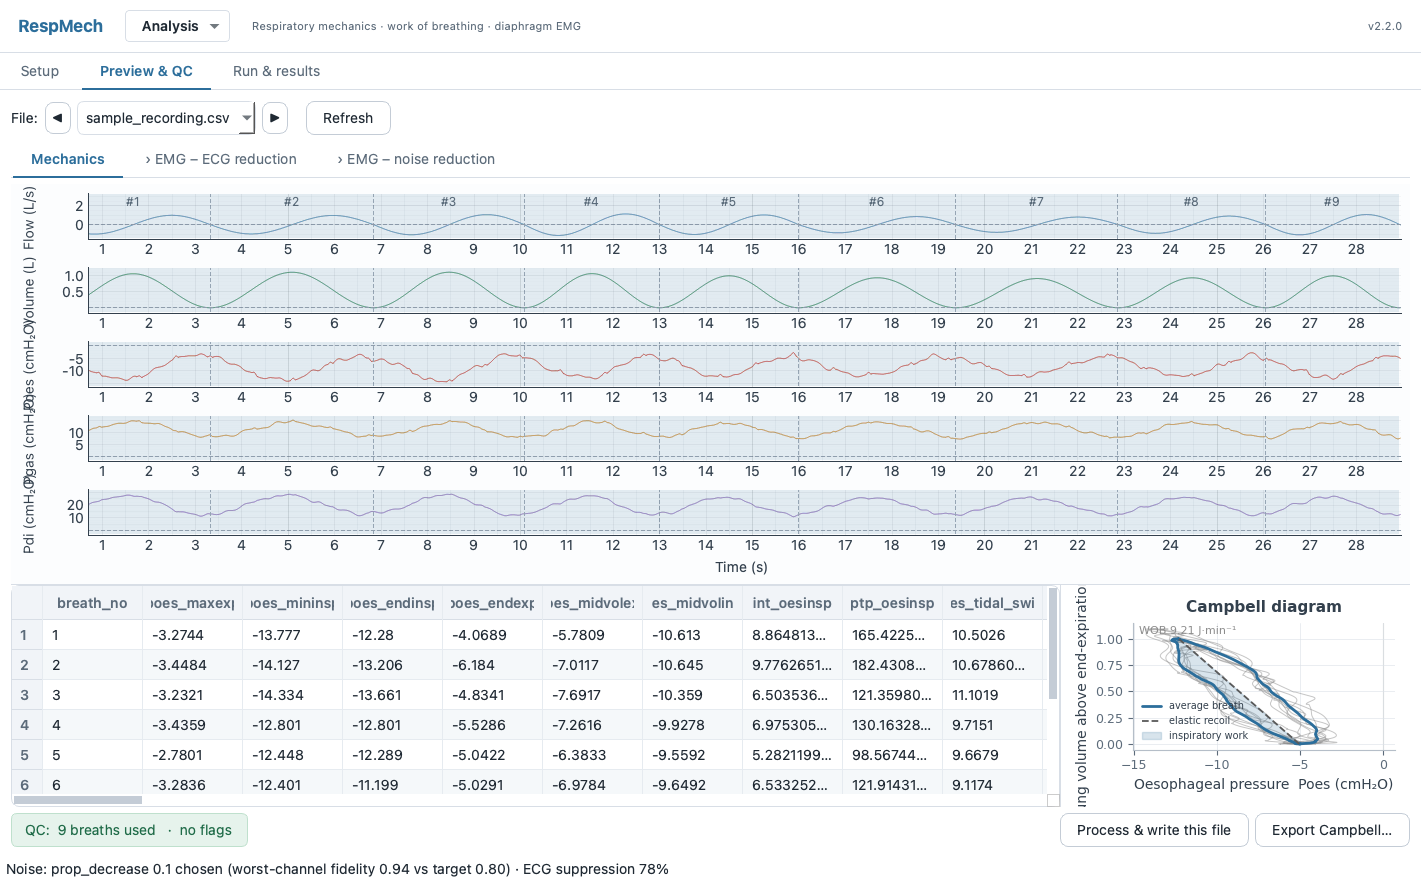
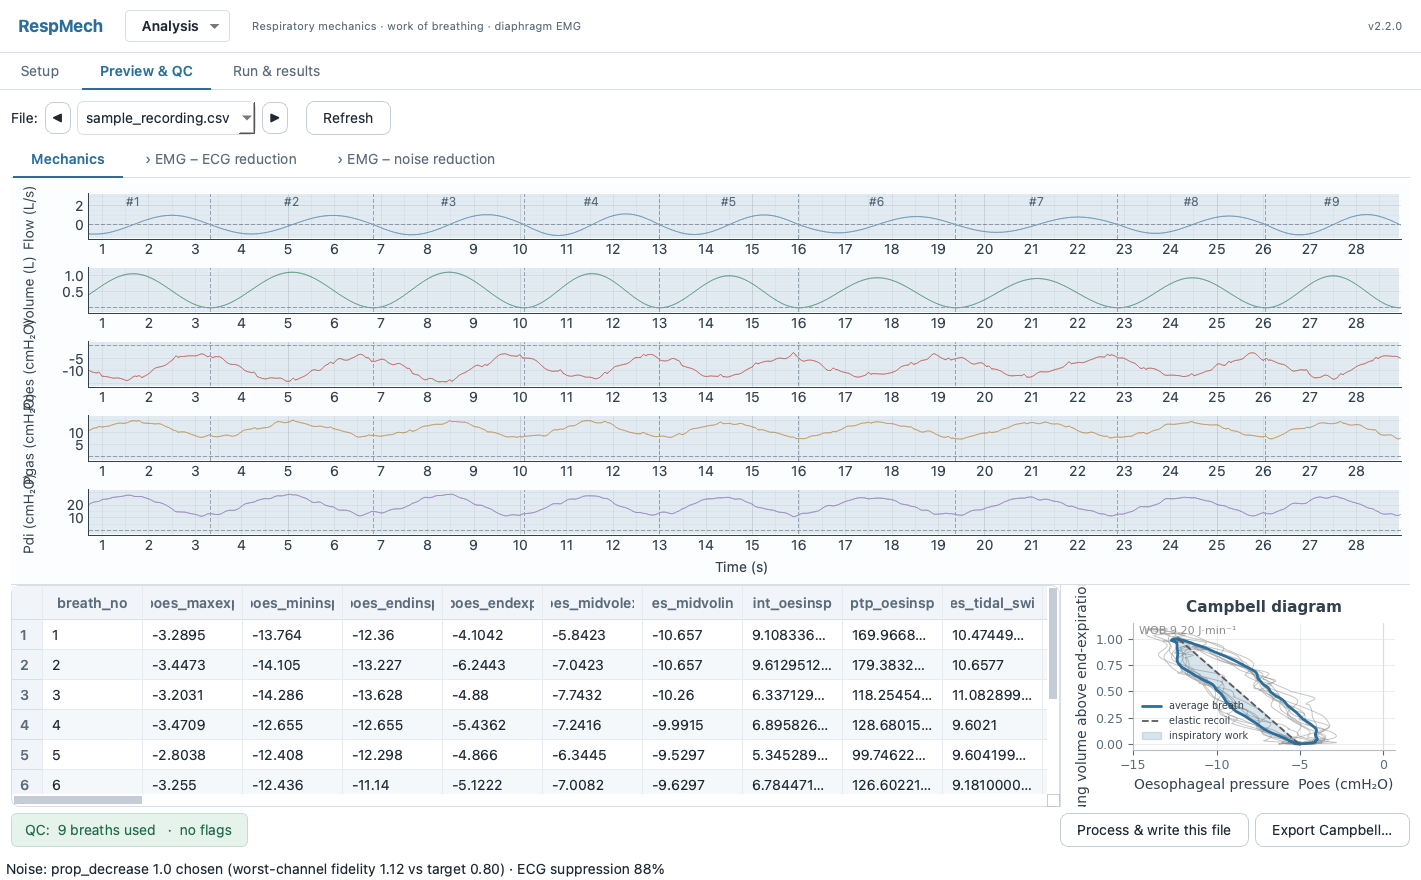
Sample EMG: clean ECG removal, shared-scale figure, visible noise reduction
Follow-up to the ECG-amplitude change. Three fixes so the demonstration is honest:

- ECG removal was leaving most of the QRS (the S-trough) as a big residual once the
  R-wave was made large. Root cause: build_sample_settings used the default
  ecg_min_height (0.0005), far below the EMG/noise, so the R-peak detector locked onto
  noise/EMG peaks and built a garbage averaged template. Setting ecg_min_height between
  the EMG (~0.2) and the R-wave (~0.9) fixes it: residual drops to ~11% of R (matching
  real data ~18%), and the ECG inflates the raw RMS ~2.8× (real data: 2.83×). The QRS is
  also widened to a realistic ~14 ms so template alignment is robust.
- The noise floor is now broadband instrumentation noise weighted ABOVE the EMG's ~30 Hz
  band (where real EMG noise sits), so it is spectrally separable: noise reduction now
  visibly cleans the between-burst gaps ~58% while preserving ~91% of the burst (was a
  barely-visible ~12%).
- The README EMG-stages figure uses ONE shared y-scale for all three rows; the R-waves
  are several times the EMG and simply run off the top of the raw row (positions marked
  ▼), so the conditioned rows are directly comparable. plot_yscale is cleared so the
  app's own diagnostic EMG figures auto-scale per stage.

Deterministic; 51 sample-binding tests pass.

diff --git a/src/respmech/core/sample.py b/src/respmech/core/sample.py
@@ -71,13 +71,15 @@ def _physio_noise(n, rng, amp, smooth_s=0.35):
     return amp * x / (x.std() or 1.0)
 
 
-def _coloured_noise(n, rng, amp, smooth_s=0.004):
-    """Broadband but mildly low-passed noise (coloured, like the real EMG floor — power
-    falls with frequency), scaled to std ``amp``. This is what spectral noise reduction
-    acts on; real recordings have no white fuzz or mains line."""
-    w = np.hanning(max(3, int(smooth_s * FS)))
-    w = w / w.sum()
-    y = np.convolve(rng.standard_normal(n + w.size), w, mode="same")[:n]
+def _instrument_noise(n, rng, amp):
+    """Broadband instrumentation noise weighted ABOVE the EMG's dominant band (it ramps in
+    from ~120 Hz), scaled to std ``amp``. Real diaphragm-EMG noise sits mostly higher than
+    the ~30 Hz signal peak, which is exactly what makes it separable — spectral noise
+    reduction gates it out while leaving the low-frequency burst, a clear before/after."""
+    x = np.fft.rfft(rng.standard_normal(n))
+    f = np.fft.rfftfreq(n, 1.0 / FS)
+    h = np.clip((f - 120.0) / 130.0, 0.0, 1.0)                    # ramp 120→250 Hz, flat above
+    y = np.fft.irfft(x * h, n=n)
     return amp * y / (y.std() or 1.0)
 
 
@@ -92,13 +94,15 @@ def _emg_carrier(n, rng):
 
 
 def _qrs():
-    """A short triphasic QRS complex (~40 ms): small Q dip, tall R spike, deep S trough —
-    the measured morphology of the cardiac artefact on oesophageal EMG."""
-    m = int(0.05 * FS)
+    """A triphasic QRS complex (~50 ms): small Q dip, tall R spike, deep S trough — the
+    measured morphology of the cardiac artefact on oesophageal EMG. The R is given a
+    realistic ~14 ms width (not a 1–2 sample spike) so averaged-template ECG removal can
+    align and cancel it cleanly, as it does on real recordings."""
+    m = int(0.06 * FS)
     t = (np.arange(m) - m // 2) / FS
     def g(a, mu, sig):
         return a * np.exp(-0.5 * ((t - mu) / sig) ** 2)
-    return g(1.0, 0.0, 0.003) + g(-0.25, -0.008, 0.002) + g(-0.70, 0.015, 0.004)
+    return g(1.0, 0.0, 0.006) + g(-0.22, -0.013, 0.004) + g(-0.55, 0.019, 0.007)
 
 
 def _heartbeat_impulses(n, rng):
@@ -199,7 +203,7 @@ def _signals():
     for ch in range(N_EMG):
         carrier = _emg_carrier(n, rng)
         amp = EMG_SCALE[ch] * burst_peak * (tonic * breathing + (1.0 - tonic) * env)
-        floor = _coloured_noise(n, rng, amp=0.12 * EMG_SCALE[ch] * burst_peak)
+        floor = _instrument_noise(n, rng, amp=0.6 * EMG_SCALE[ch] * burst_peak)
         emg.append(amp * carrier + floor + ECG_SCALE[ch] * r_peak * ecg)
 
     # pressures: elastic + resistive, a smooth cardiac ripple, and low-frequency wander
@@ -253,6 +257,8 @@ def build_sample_settings(desc: dict, output_folder: str):
     e = s.processing.emg
     e.remove_ecg = True
     e.detect_channel = desc["detect_channel"]
+    e.ecg_min_height = 0.4      # between the EMG/noise (~0.2) and the R-wave (~0.9) so the
+                                # detector locks onto the heartbeats, not EMG or noise peaks
     e.remove_noise = True
     e.noise.enabled = True
     e.noise.reference_file = desc["filename"]

diff --git a/scripts/gen_readme_figures.py b/scripts/gen_readme_figures.py
@@ -75,20 +75,17 @@ def _emg_stages(sig, path):
     t0 = t[0] + 3.0
     m = (t >= t0) & (t <= t0 + 7.0)
     pk = peaks[(peaks >= t0) & (peaks <= t0 + 7.0)]
-    # the R-waves dwarf the EMG, so the raw row is drawn at full scale and the two
-    # conditioned rows are ZOOMED to the (much smaller) EMG level — otherwise the muscle
-    # signal would be an invisible squiggle along the axis
-    ymax_raw = 1.05 * np.max(np.abs(raw[m]))
-    ymax_emg = 1.05 * max(np.max(np.abs(ecgr[m])), np.max(np.abs(noi[m])))
+    # one shared y-scale at the EMG level so the three rows are directly comparable; the
+    # R-waves are several times bigger and simply run off the top of the raw row (their
+    # positions are marked ▼) — they don't need their full height to make the point
+    ymax = 1.05 * max(np.max(np.abs(ecgr[m])), np.max(np.abs(noi[m])))
 
     fig = Figure(figsize=(9.2, 5.2), dpi=140)
     FigureCanvasAgg(fig)
-    rows = [("1 · Raw EMG — the heartbeat (ECG) R-waves dwarf the EMG (detected R-peaks ▼)",
-             raw, True, ymax_raw),
-            (f"2 · ECG removed  (zoomed ~{ymax_raw / ymax_emg:.0f}× — the EMG is far smaller "
-             f"than the R-waves)", ecgr, False, ymax_emg),
-            ("3 · ECG removed + spectral noise reduced", noi, False, ymax_emg)]
-    for i, (label, y, mark, ymax) in enumerate(rows):
+    rows = [("1 · Raw EMG — heartbeat (ECG) R-waves run off-scale (detected R-peaks ▼)", raw, True),
+            ("2 · ECG removed", ecgr, False),
+            ("3 · ECG removed + spectral noise reduced", noi, False)]
+    for i, (label, y, mark) in enumerate(rows):
         ax = fig.add_subplot(3, 1, i + 1)
         ax.plot(t[m], y[m], color=_BRAND, lw=0.7)
         ax.set_ylim(-ymax, ymax); ax.set_xlim(t0, t0 + 7.0)
@@ -97,7 +94,7 @@ def _emg_stages(sig, path):
         ax.text(0.010, 0.94, label, transform=ax.transAxes, fontsize=9.5, va="top", ha="left",
                 bbox=dict(boxstyle="round,pad=0.3", fc="white", ec=_MUTED, alpha=0.85))
         if mark and pk.size:
-            ax.scatter(pk, np.full(pk.size, ymax * 0.92), s=24, c=_CAPTURE, marker="v",
+            ax.scatter(pk, np.full(pk.size, ymax * 0.90), s=24, c=_CAPTURE, marker="v",
                        zorder=6, clip_on=False)
         if i < 2:
             ax.set_xticklabels([])

diff --git a/README.md b/README.md
@@ -128,7 +128,8 @@ amplitude, so if left in it dominates the signal and badly inflates the RMS — 
 clearest channel and subtracted first. Then **spectral noise reduction** — trained on a
 diaphragm-quiet reference — cleans the residual noise floor while preserving the inspiratory burst.
 Both steps are tuned against the live signal on the Preview screen's EMG tabs, and every stage is
-written to the diagnostic figures (note the raw row's scale below — the R-waves dwarf the EMG):
+written to the diagnostic figures (all three rows below share one scale — the R-waves are so much
+larger than the EMG that they run off the top of the raw row):
 
 ![Diaphragm EMG conditioning stages](docs/img/emg-stages.png)
 
